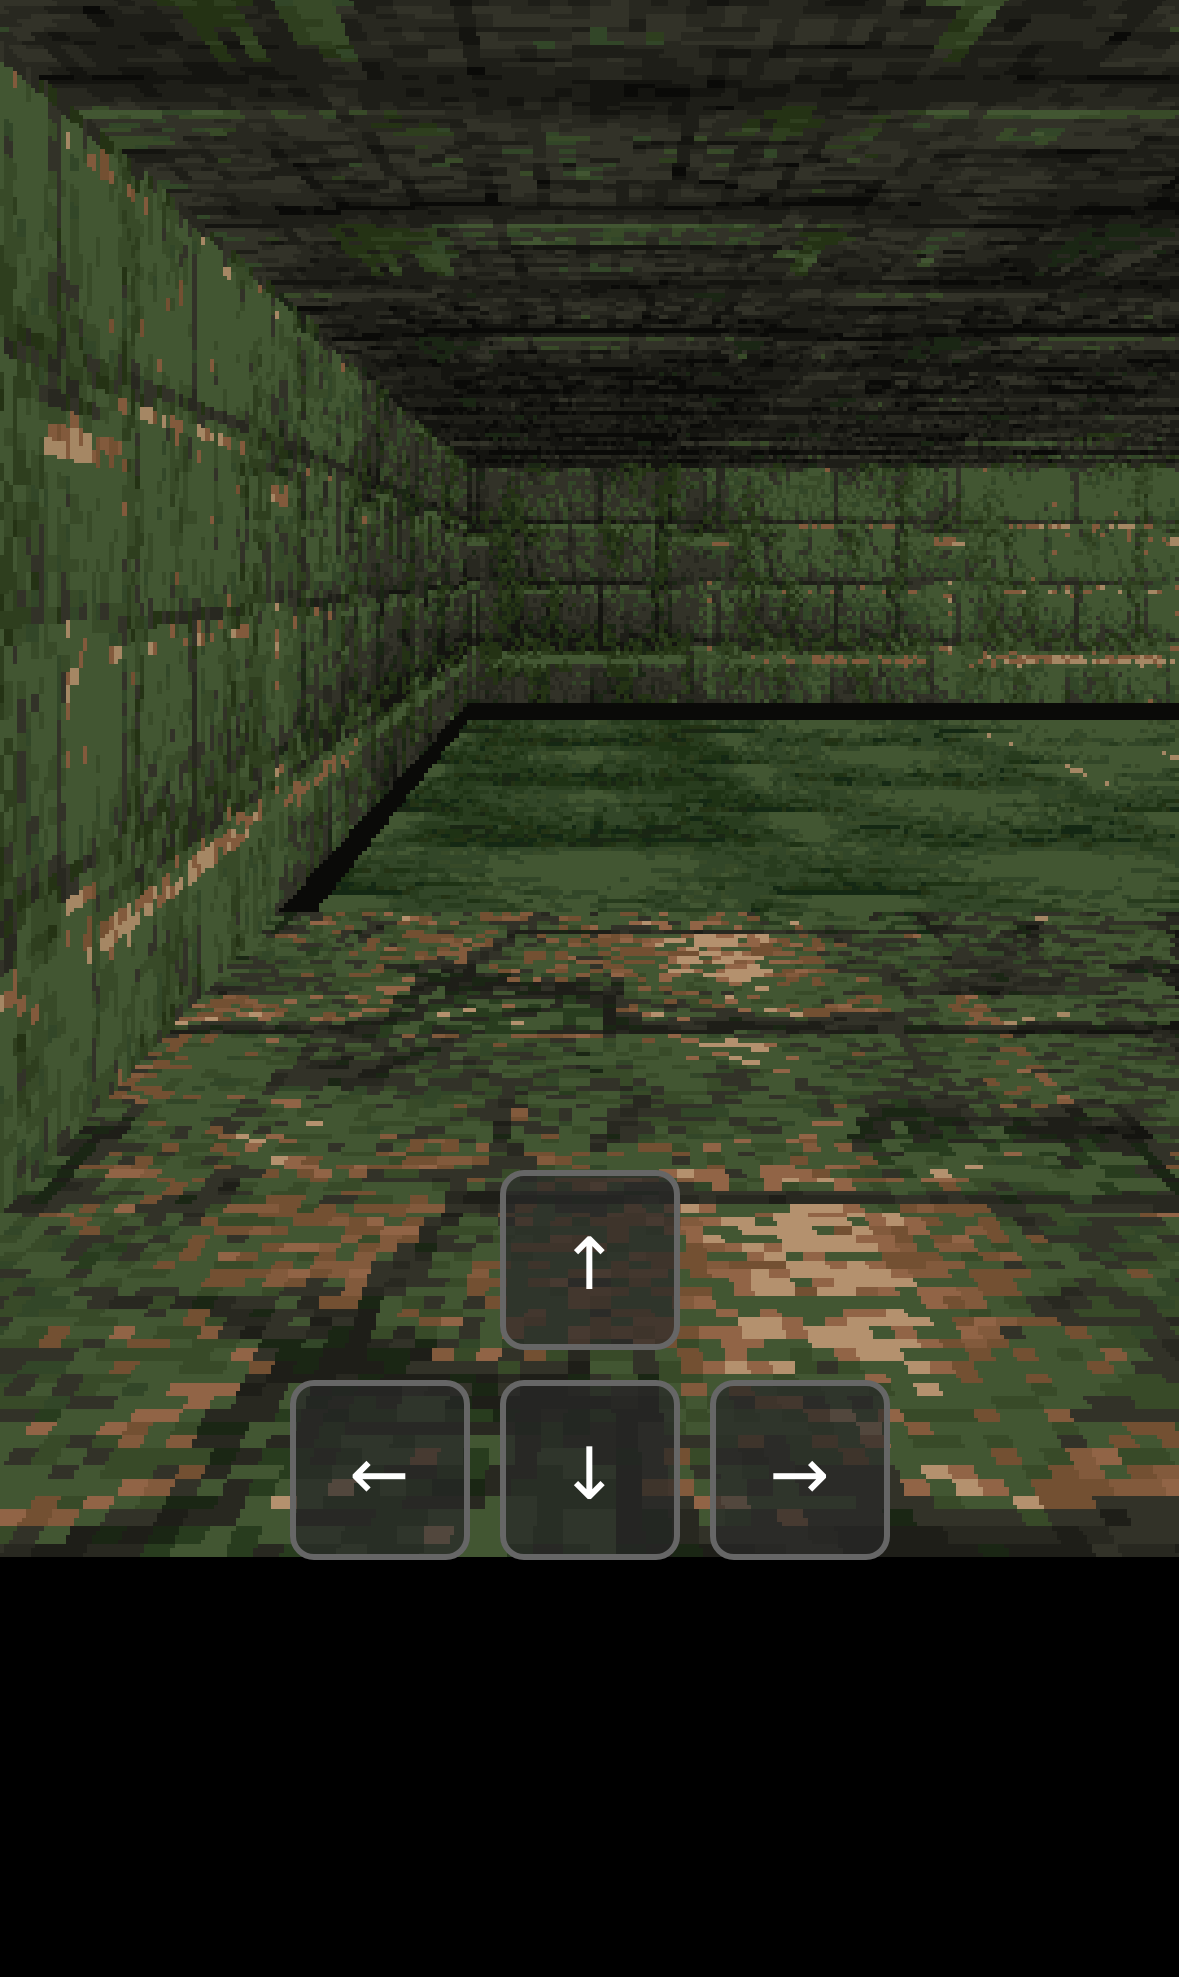
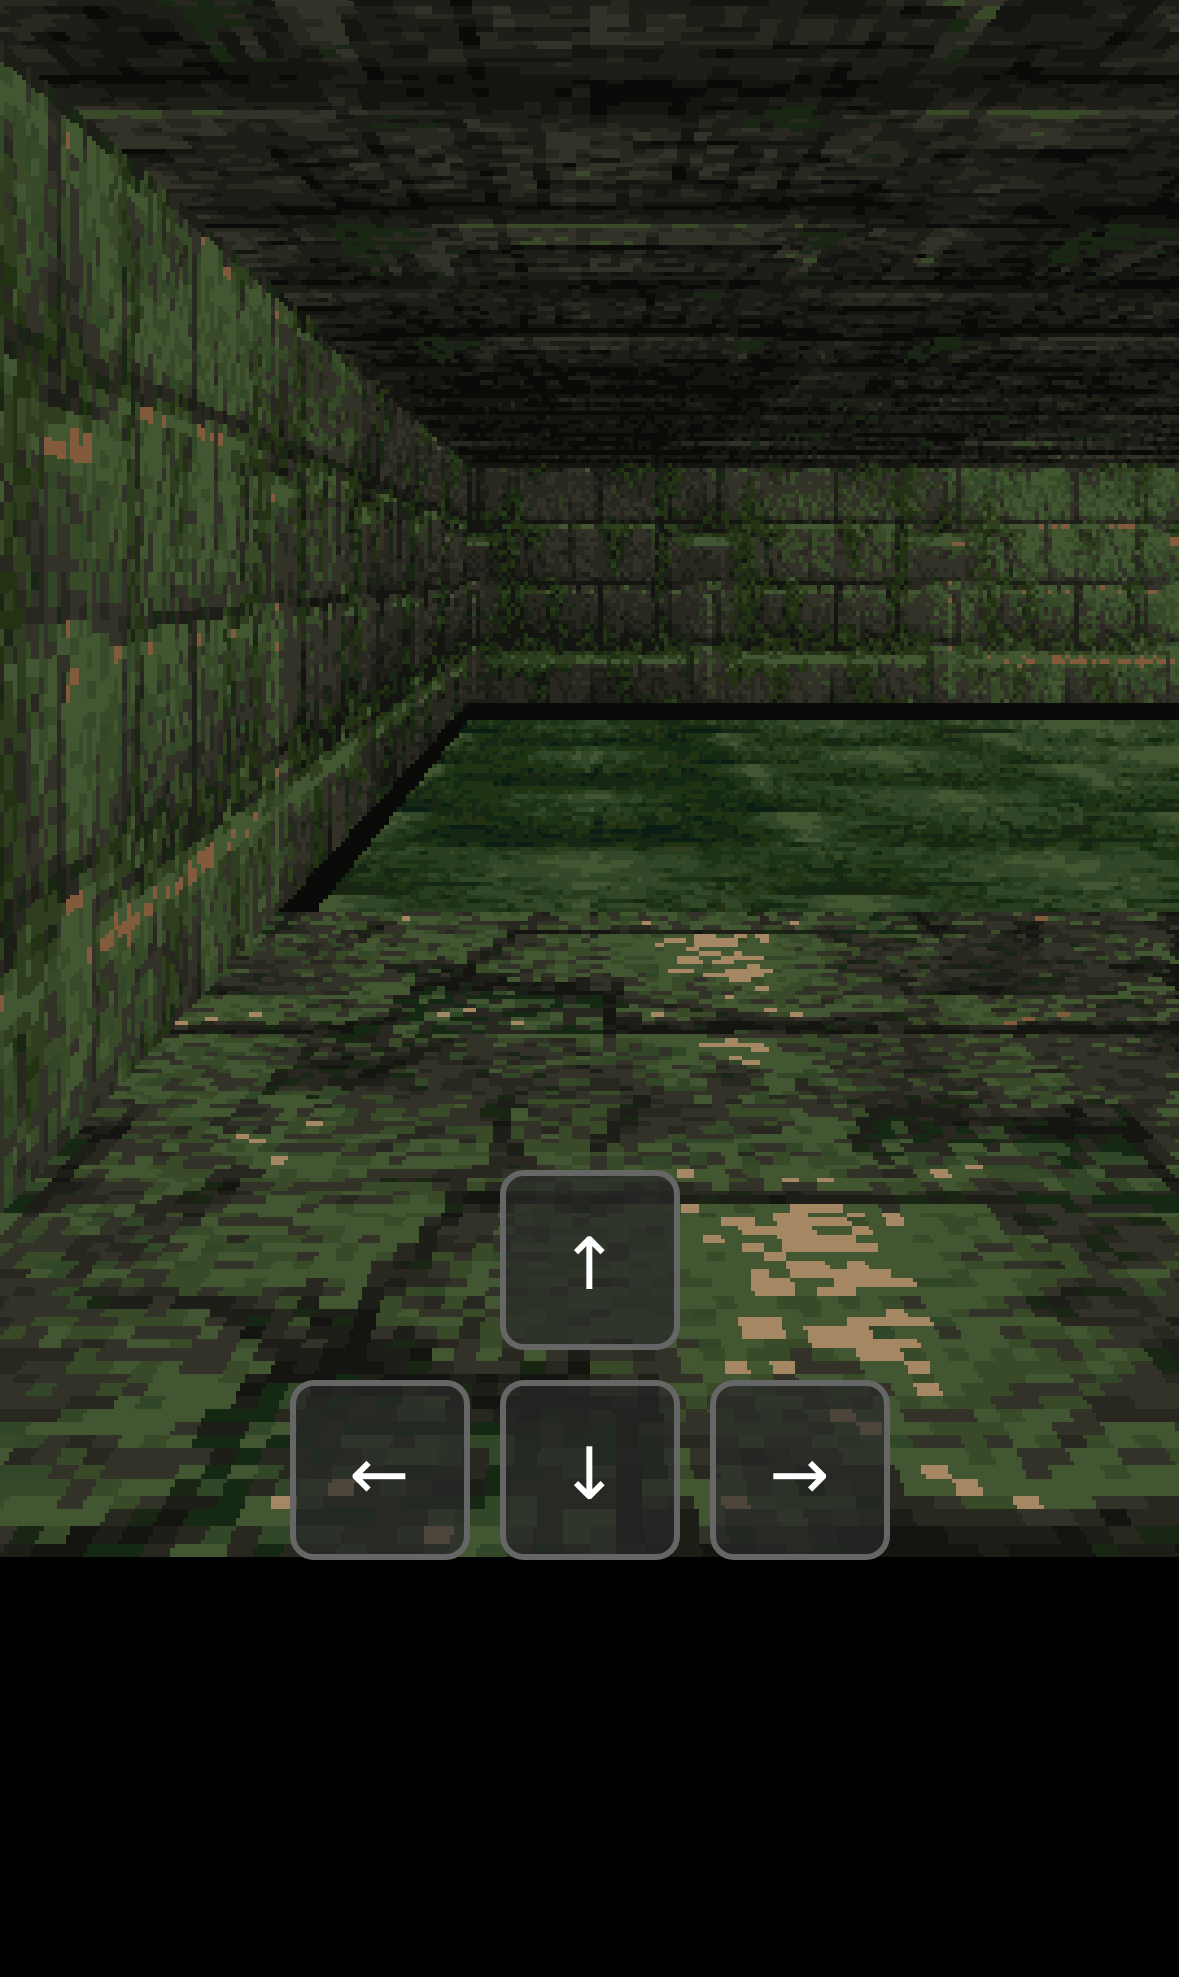
Fix green cast, depth falloff, navigation, and layout
- Perceptual distance (weighted RGB) for palette snapping
- Reduced warm tint to preserve neutral stone colors
- Stricter banded falloff for visible depth (×0.65 per square)
- Lower brightness boost (3.8x) to show near/far contrast
- Fixed water hall navigation (face down hall from 3,2)
- Fixed slime navigation (1 square away from 6,4)
- Created palette comparison HTML

Mean brightness: 39.08/255 (target 35-60)

diff --git a/tests/complete-test.spec.ts b/tests/complete-test.spec.ts
@@ -52,36 +52,48 @@ test('3D prototype - complete visual test', async ({ page }) => {
   await page.screenshot({ path: 'screenshots/proto-water.png' });
   console.log('✓ Screenshot: proto-water.png (water hall)');
   
-  // Navigate to locked door - stop 3 squares away for clear side walls
-  await page.locator('#btn-right').click();
+  // From (3,2) facing west, go to door at (4,2)
+  // Turn around and go east
+  await page.locator('#btn-right').click(); // face north from west
   await page.waitForTimeout(250);
-  // Now at (1,5) facing east, door is at (4,2)
-  // Don't move forward - stay back to show side walls
+  await page.locator('#btn-right').click(); // face east
+  await page.waitForTimeout(250);
+  // Now at (3,2) facing east, move to (5,2) to view door at (4,2) from 1 square away
+  await page.locator('#btn-forward').click(); // to (4,2) - at the door
+  await page.waitForTimeout(250);
+  await page.locator('#btn-forward').click(); // to (5,2) - 1 square past door
+  await page.waitForTimeout(250);
+  await page.locator('#btn-back').click(); // back to (4,2)
+  await page.waitForTimeout(250);
+  await page.locator('#btn-back').click(); // to (3,2)
+  await page.waitForTimeout(250);
+  await page.locator('#btn-back').click(); // to (2,2)
+  await page.waitForTimeout(250);
   
-  // Screenshot 4: Door from distance showing side walls
+  // Screenshot 4: Door from 2 squares away (from 2,2 facing east toward 4,2)
   await page.screenshot({ path: 'screenshots/proto-door.png' });
-  console.log('✓ Screenshot: proto-door.png (door with side walls visible)');
+  console.log('✓ Screenshot: proto-door.png (door from 2 squares away)');
   
-  // Navigate toward slime - go around, stop further back
-  await page.locator('#btn-forward').click();
+  // Navigate to slime at (6,4) - from (2,2) facing east
+  await page.locator('#btn-forward').click(); // to (3,2)
   await page.waitForTimeout(250);
-  await page.locator('#btn-forward').click();
+  await page.locator('#btn-forward').click(); // to (4,2)
   await page.waitForTimeout(250);
-  await page.locator('#btn-right').click();
+  await page.locator('#btn-forward').click(); // to (5,2)
   await page.waitForTimeout(250);
-  for (let i = 0; i < 4; i++) {
-    await page.locator('#btn-forward').click();
-    await page.waitForTimeout(250);
-  }
-  await page.locator('#btn-left').click();
+  await page.locator('#btn-left').click(); // face north
   await page.waitForTimeout(250);
-  // Stop here - 3 squares from slime
-  await page.locator('#btn-forward').click();
+  await page.locator('#btn-forward').click(); // to (5,3)
   await page.waitForTimeout(250);
+  await page.locator('#btn-forward').click(); // to (5,4)
+  await page.waitForTimeout(250);
+  await page.locator('#btn-right').click(); // face east toward slime
+  await page.waitForTimeout(250);
+  // Now at (5,4) facing east, slime is at (6,4), 1 square ahead
   
-  // Screenshot 5: Slime from distance
+  // Screenshot 5: Slime from 1 square away
   await page.screenshot({ path: 'screenshots/proto-slime.png' });
-  console.log('✓ Screenshot: proto-slime.png (slime with corridor visible)');
+  console.log('✓ Screenshot: proto-slime.png (slime from 1 square away)');
   
   // Screenshot 6: Without palette
   await page.goto(`${BASE_URL}/proto3d.html?palette=0&test=1`);

diff --git a/src/proto3d/vertex-lighting.ts b/src/proto3d/vertex-lighting.ts
@@ -28,11 +28,11 @@ export class VertexLightingManager {
   
   private getBandedFalloff(distance: number): number {
     // Party/lantern: 1.0 at 0-1 distance, ×0.65 per further square
-    // Sconce: similar pool around its square
-    if (distance <= 1.0) return 1.0;
+    // Make banding more obvious with stricter cutoffs
+    const distSquares = Math.floor(distance);
+    if (distSquares === 0) return 1.0;
     
-    const extraSquares = Math.floor(distance) - 1;
-    return Math.pow(0.65, extraSquares);
+    return Math.pow(0.65, distSquares);
   }
   
   private calculateBrightness(tileX: number, tileY: number, isDark: boolean): number {
@@ -69,9 +69,9 @@ export class VertexLightingManager {
       if (isDark && source.type === 'sconce') continue;
       
       // User spec: 1.0 at 0-1 distance, ×0.65 per further square
-      // Boost significantly to compensate for color space and palette conversion
+      // More moderate boost to show depth falloff clearly
       const falloff = this.getBandedFalloff(distance);
-      const brightness = source.intensity * falloff * 5.0; // Strong brightness boost
+      const brightness = source.intensity * falloff * 3.8; // Moderate boost for depth
       
       maxBrightness = Math.max(maxBrightness, brightness);
     }
@@ -87,7 +87,7 @@ export class VertexLightingManager {
       }
     }
     
-    return Math.min(maxBrightness, 5.0); // Allow strong overbrightening
+    return Math.min(maxBrightness, 3.8); // Moderate cap for visible falloff
   }
   
   private getWarmTint(tileX: number, tileY: number): THREE.Color {
@@ -107,11 +107,12 @@ export class VertexLightingManager {
       }
     }
     
-    // Neutral to warm: (1.0, 1.0, 1.0) → (1.0, 0.95, 0.85)
+    // Subtle warm tint: (1.0, 1.0, 1.0) → (1.0, 0.98, 0.92)
+    // Less tinting to preserve neutral stone colors
     return new THREE.Color(
       1.0,
-      1.0 - warmth * 0.05,
-      1.0 - warmth * 0.15
+      1.0 - warmth * 0.02,
+      1.0 - warmth * 0.08
     );
   }
   

diff --git a/src/proto3d/renderer.ts b/src/proto3d/renderer.ts
@@ -85,6 +85,13 @@ export class PixelRenderer {
           return mix(a, b, c);
         }
         
+        // Perceptual distance using weighted RGB (human eye more sensitive to green)
+        float perceptualDistance(vec3 c1, vec3 c2) {
+          vec3 d = c1 - c2;
+          // Weight: red=2, green=4, blue=3 (roughly approximates perception)
+          return sqrt(2.0*d.r*d.r + 4.0*d.g*d.g + 3.0*d.b*d.b);
+        }
+        
         vec3 quantizeColor(vec3 linearColor) {
           if (paletteSize == 0 || paletteEnabled < 0.5) {
             return linearToSRGB(linearColor);
@@ -101,7 +108,7 @@ export class PixelRenderer {
           for (int i = 0; i < 64; i++) {
             if (i >= paletteSize) break;
             vec3 palColor = palette[i];
-            float dist = distance(srgb, palColor);
+            float dist = perceptualDistance(srgb, palColor);
             if (dist < minDist) {
               minDist = dist;
               nearest = palColor;
